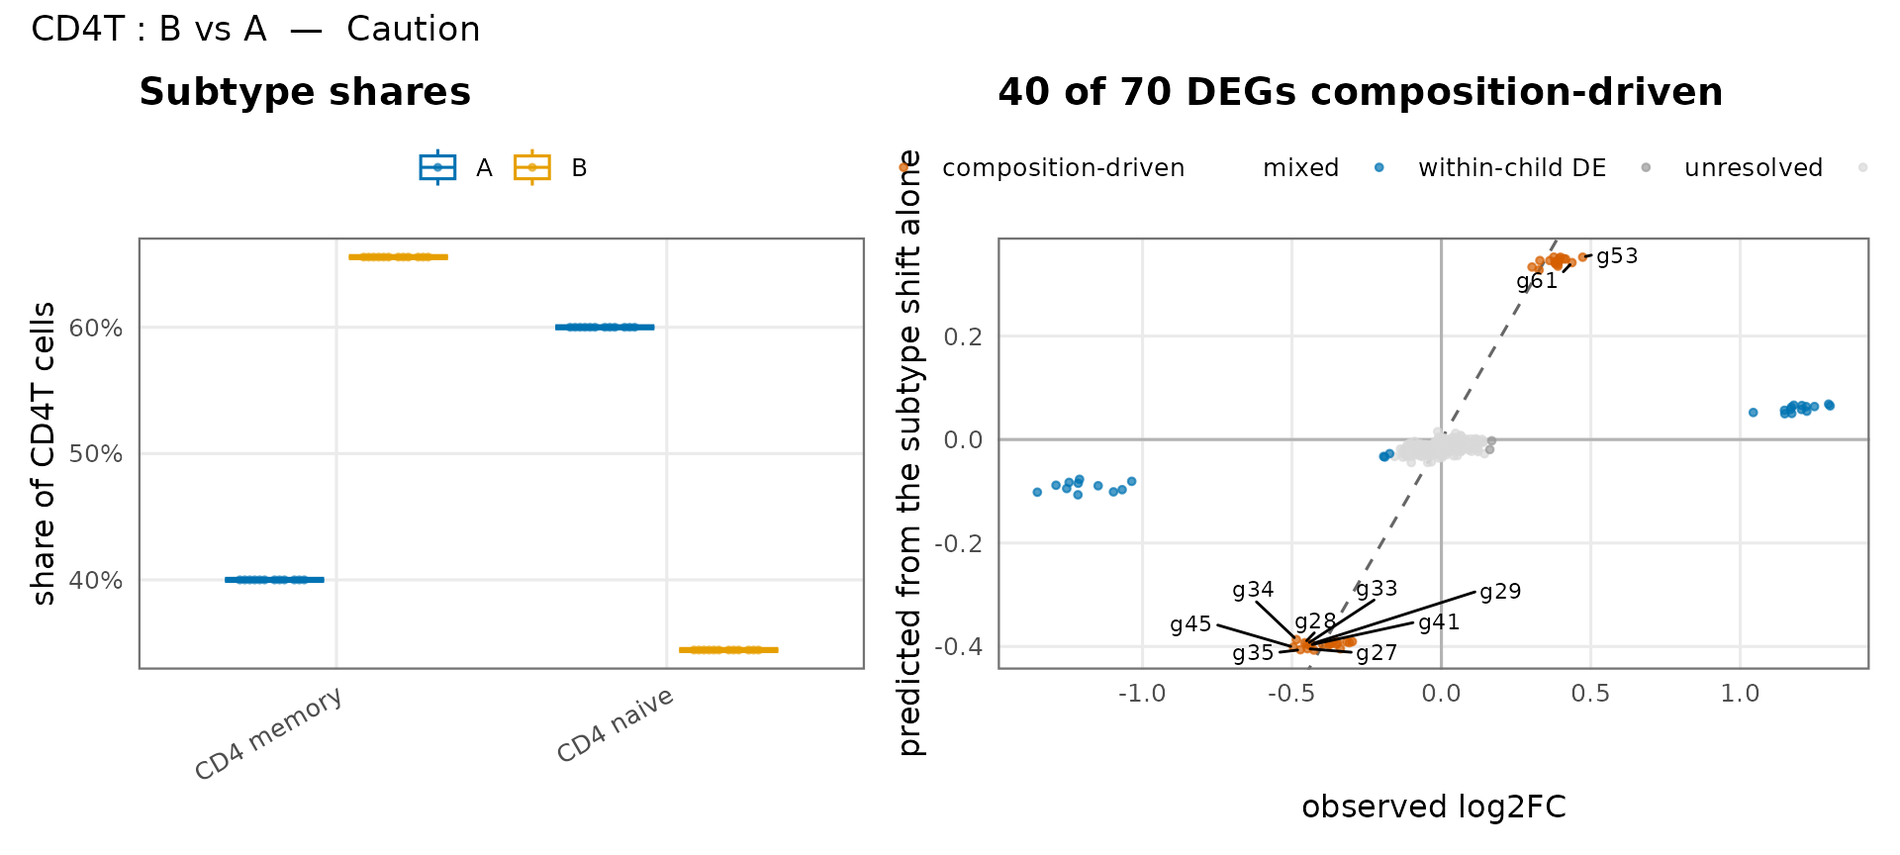
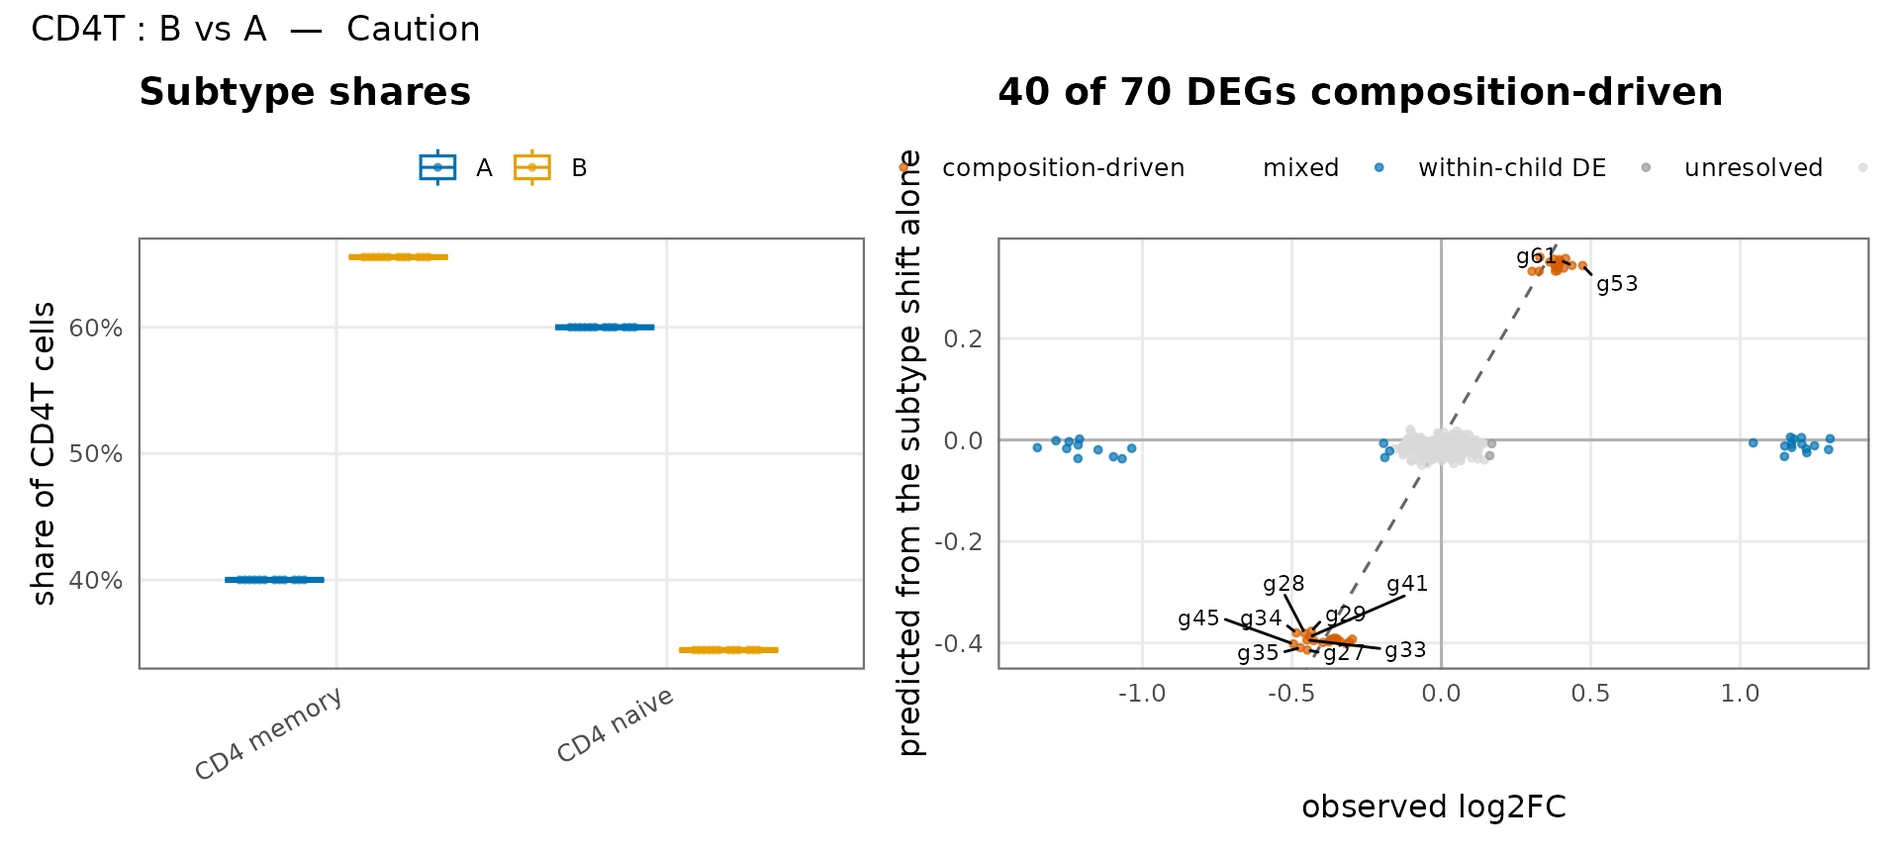
Deploying to gh-pages from @ smorabit/seny@18b826710f20b2fa9de70a03a6405b9912578970 🚀

diff --git a/articles/seny.html b/articles/seny.html
@@ -290,9 +290,8 @@ and for each broad cluster:</p>
 <li>tests the subtypes’ shares of the cluster with
 <code><a href="https://rdrr.io/pkg/speckle/man/propeller.html" class="external-link">speckle::propeller</a></code>;</li>
 <li>predicts, per gene, the log2 fold change the observed shift alone
-would cause, and counts the genes where it exceeds the gene’s own
-minimum detectable effect (they would be called DE from composition
-alone);</li>
+would cause, and the power to call it DE, which sums to the number of
+DEGs expected from composition alone;</li>
 <li>labels each DEG of the broad cluster’s own test as
 <em>composition-driven</em>, <em>within-child DE</em>, <em>mixed</em> or
 <em>unresolved</em>, by comparing the observed change with the
@@ -310,7 +309,7 @@ prediction and checking whether any subtype shows the gene as DE.</li>
 <span><span class="co">#&gt; calcNormFactors has been renamed to normLibSizes</span></span>
 <span><span class="va">d2</span> <span class="op">&lt;-</span> <span class="fu"><a href="https://rdrr.io/r/base/as.data.frame.html" class="external-link">as.data.frame</a></span><span class="op">(</span><span class="va">res2</span><span class="op">)</span></span>
 <span><span class="va">cols</span> <span class="op">&lt;-</span> <span class="fu"><a href="https://rdrr.io/r/base/c.html" class="external-link">c</a></span><span class="op">(</span><span class="st">"annotation"</span>, <span class="st">"cluster"</span>, <span class="st">"call"</span>, <span class="st">"composition"</span>, <span class="st">"comp_child"</span>,</span>
-<span>          <span class="st">"n_comp_sensitive"</span>, <span class="st">"n_parent_deg"</span>, <span class="st">"n_comp_driven"</span><span class="op">)</span></span>
+<span>          <span class="st">"exp_comp_deg"</span>, <span class="st">"n_parent_deg"</span>, <span class="st">"n_comp_driven"</span><span class="op">)</span></span>
 <span><span class="fu">knitr</span><span class="fu">::</span><span class="fu"><a href="https://rdrr.io/pkg/knitr/man/kable.html" class="external-link">kable</a></span><span class="op">(</span><span class="va">d2</span><span class="op">[</span><span class="va">d2</span><span class="op">$</span><span class="va">annotation</span> <span class="op">==</span> <span class="st">"cell_type"</span>, <span class="va">cols</span><span class="op">]</span>, digits <span class="op">=</span> <span class="fl">2</span>, row.names <span class="op">=</span> <span class="cn">FALSE</span><span class="op">)</span></span></code></pre></div>
 <table class="table">
 <colgroup>
@@ -319,7 +318,7 @@ prediction and checking whether any subtype shows the gene as DE.</li>
 <col width="13%">
 <col width="13%">
 <col width="11%">
-<col width="17%">
+<col width="13%">
 <col width="13%">
 <col width="14%">
 </colgroup>
@@ -329,7 +328,7 @@ prediction and checking whether any subtype shows the gene as DE.</li>
 <th align="left">call</th>
 <th align="left">composition</th>
 <th align="left">comp_child</th>
-<th align="right">n_comp_sensitive</th>
+<th align="right">exp_comp_deg</th>
 <th align="right">n_parent_deg</th>
 <th align="right">n_comp_driven</th>
 </tr></thead>
@@ -340,7 +339,7 @@ prediction and checking whether any subtype shows the gene as DE.</li>
 <td align="left">Caution</td>
 <td align="left">assessed</td>
 <td align="left">CD4 memory</td>
-<td align="right">40</td>
+<td align="right">44.36</td>
 <td align="right">70</td>
 <td align="right">40</td>
 </tr>
@@ -368,10 +367,10 @@ prediction and checking whether any subtype shows the gene as DE.</li>
 </table>
 <div class="sourceCode" id="cb11"><pre class="downlit sourceCode r">
 <code class="sourceCode R"><span><span class="va">d2</span><span class="op">$</span><span class="va">reason</span><span class="op">[</span><span class="va">d2</span><span class="op">$</span><span class="va">comparison</span> <span class="op">==</span> <span class="st">"cell_type:CD4T:B_vs_A"</span><span class="op">]</span></span>
-<span><span class="co">#&gt; [1] "composition shift within the cluster (CD4 memory 40% -&gt; 66%, FDR 0): 40 genes (10.0%) would look DE from the shift alone"</span></span></code></pre></div>
+<span><span class="co">#&gt; [1] "composition shift within the cluster (CD4 memory 40% -&gt; 66%, FDR 0): ~44 genes (11.1%) expected to look DE from the shift alone"</span></span></code></pre></div>
 <p>CD4 T is now <strong>Caution</strong>: the memory share rises from
-about 40% to 66%, enough to make 40 genes look DE at the broad level.
-<code><a href="../reference/plotComposition.html">plotComposition()</a></code> shows the shift and which of the
+about 40% to 66%, enough to make about 44 genes look DE at the broad
+level. <code><a href="../reference/plotComposition.html">plotComposition()</a></code> shows the shift and which of the
 cluster’s DEGs it explains: composition-driven genes sit on the
 diagonal, while the genes that really change inside the subtypes do
 not.</p>
@@ -406,7 +405,7 @@ not chosen up front.</p>
 <span><span class="co">#&gt;  $ minTestable   : num 200</span></span>
 <span><span class="co">#&gt;  $ compFDR       : num 0.05</span></span>
 <span><span class="co">#&gt;  $ compFrac      : num 0.01</span></span>
-<span><span class="co">#&gt;  $ compExplained : num 0.5</span></span></code></pre></div>
+<span><span class="co">#&gt;  $ compExplained : num 0.25</span></span></code></pre></div>
 <p>This run assessed 3 comparisons. When you scan many comparisons at
 once, treat the matrix as a screen, not a ranking: picking the standout
 cell after the fact inflates false positives. The call tells you which
@@ -457,7 +456,7 @@ multiple-testing control across them.</p>
 <span><span class="co">#&gt;  [33] pkgconfig_2.0.3             Matrix_1.7-6               </span></span>
 <span><span class="co">#&gt;  [35] R6_2.6.1                    fastmap_1.2.0              </span></span>
 <span><span class="co">#&gt;  [37] MatrixGenerics_1.24.0       fitdistrplus_1.2-6         </span></span>
-<span><span class="co">#&gt;  [39] future_1.80.0               shiny_1.14.0               </span></span>
+<span><span class="co">#&gt;  [39] future_1.82.0               shiny_1.14.0               </span></span>
 <span><span class="co">#&gt;  [41] digest_0.6.39               patchwork_1.3.2            </span></span>
 <span><span class="co">#&gt;  [43] S4Vectors_0.50.3            tensor_1.5.1               </span></span>
 <span><span class="co">#&gt;  [45] Seurat_5.6.0                RSpectra_0.16-2            </span></span>

diff --git a/reference/assessComposition.html b/reference/assessComposition.html
@@ -55,7 +55,7 @@ step measures that risk for every comparison, in four parts:</p>
 <span>  <span class="va">sensitivity</span>,</span>
 <span>  power <span class="op">=</span> <span class="fl">0.8</span>,</span>
 <span>  fdr <span class="op">=</span> <span class="fl">0.05</span>,</span>
-<span>  reference <span class="op">=</span> <span class="fu"><a href="https://rdrr.io/r/base/c.html" class="external-link">c</a></span><span class="op">(</span><span class="st">"pooled"</span>, <span class="st">"reference"</span><span class="op">)</span>,</span>
+<span>  reference <span class="op">=</span> <span class="fu"><a href="https://rdrr.io/r/base/c.html" class="external-link">c</a></span><span class="op">(</span><span class="st">"reference"</span>, <span class="st">"pooled"</span><span class="op">)</span>,</span>
 <span>  thresholds <span class="op">=</span> <span class="fu"><a href="defaultThresholds.html">defaultThresholds</a></span><span class="op">(</span><span class="op">)</span></span>
 <span><span class="op">)</span></span></code></pre></div>
     </div>
@@ -88,9 +88,9 @@ attribution. Default 0.05.</p></dd>
 
 <dt id="arg-reference">reference<a class="anchor" aria-label="anchor" href="#arg-reference"></a></dt>
 <dd><p>Where the per-cell child expression <code>c_gk</code> comes from:
-<code>"pooled"</code> (all samples of the contrast's groups; default) or <code>"reference"</code>
-(the contrast's reference group A only, which avoids attributing real
-within-child DE in B to composition).</p></dd>
+<code>"reference"</code> (the contrast's reference group A only; default, which avoids
+attributing real within-child DE in B to composition) or <code>"pooled"</code> (all
+samples of the contrast's groups).</p></dd>
 
 
 <dt id="arg-thresholds">thresholds<a class="anchor" aria-label="anchor" href="#arg-thresholds"></a></dt>
@@ -102,9 +102,10 @@ within-child DE in B to composition).</p></dd>
     <p>A list with <code>summary</code> (a <code>data.frame</code>, one row per comparison: the
 cluster share <code>share_A</code>, <code>share_B</code>, <code>share_fdr</code>; the <code>composition</code> status;
 the most shifted child <code>comp_child</code> with <code>comp_share_A</code>, <code>comp_share_B</code> and
-<code>comp_min_fdr</code>; <code>n_comp_sensitive</code>, <code>frac_comp_sensitive</code>; <code>n_parent_deg</code>,
+<code>comp_min_fdr</code>; <code>exp_comp_deg</code>, <code>frac_comp_expected</code>; <code>n_comp_sensitive</code>,
+<code>frac_comp_sensitive</code>; <code>n_parent_deg</code>,
 <code>n_comp_driven</code>, <code>frac_comp_driven</code>), <code>genes</code> (per gene and comparison:
-<code>lfc_comp</code>, <code>mde</code>, <code>sensitive</code>, the observed <code>logfc</code>, <code>padj</code>, <code>parent_de</code>,
+<code>lfc_comp</code>, <code>comp_power</code>, <code>mde</code>, <code>sensitive</code>, the observed <code>logfc</code>, <code>padj</code>, <code>parent_de</code>,
 <code>child_de</code> and the attribution <code>label</code>) and <code>proportions</code> (per sample and
 child, the child's share of the parent).</p>
     </div>
@@ -123,12 +124,17 @@ change the observed subtype shift alone would produce in the parent's
 library-size-normalised pseudobulk,
 <code>log2[(sum_k pB_k c_gk / sum_k pB_k L_k) / (sum_k pA_k c_gk / sum_k pA_k L_k)]</code>,
 with <code>p</code> the donor-averaged child shares, <code>c_gk</code> the per-cell mean count of
-gene g in child k and <code>L_k</code> the child's per-cell library size. A gene is
-composition-sensitive when this shift-only change exceeds its own minimum
-detectable effect (the layer-4 MDE at the comparison's per-gene alpha), so
-the shift alone would be detected as DE. <code><a href="callComparisons.html">callComparisons()</a></code> flags the
-comparison <strong>Caution</strong> when a child's shift is significant and the share of
-composition-sensitive testable genes reaches <code>thresholds$compFrac</code>.</p></li>
+gene g in child k and <code>L_k</code> the child's per-cell library size. Each gene's
+power to be called DE at that shift-only change (layer 4, at the
+comparison's per-gene alpha) is <code>comp_power</code>; their sum, <code>exp_comp_deg</code>, is
+the number of DEGs the shift alone is expected to produce, and
+<code>frac_comp_expected</code> its share of the testable genes. <code><a href="callComparisons.html">callComparisons()</a></code>
+flags the comparison <strong>Caution</strong> when a child's shift is significant and
+<code>frac_comp_expected</code> reaches <code>thresholds$compFrac</code>. Genes whose shift-only
+change exceeds their own MDE (<code>sensitive</code>, counted in <code>n_comp_sensitive</code>)
+are reported too, but many genes each at modest power add up to many
+artefacts without any of them clearing the MDE, so that count understates
+the risk (E6).</p></li>
 <li><p><strong>Attribution of the observed parent DEGs</strong> (retrospective, reported
 only): each gene the method's own test calls DE in the parent at <code>fdr</code> is
 labelled <em>composition-driven</em> (DE in no child comparison, and the

diff --git a/reference/assessAll.html b/reference/assessAll.html
@@ -73,7 +73,7 @@ Invalid call per cluster-by-contrast comparison.</p>
 <span>  alphaFixed <span class="op">=</span> <span class="cn">NULL</span>,</span>
 <span>  thresholds <span class="op">=</span> <span class="fu"><a href="defaultThresholds.html">defaultThresholds</a></span><span class="op">(</span><span class="op">)</span>,</span>
 <span>  thetaReps <span class="op">=</span> <span class="fl">3</span>,</span>
-<span>  compReference <span class="op">=</span> <span class="fu"><a href="https://rdrr.io/r/base/c.html" class="external-link">c</a></span><span class="op">(</span><span class="st">"pooled"</span>, <span class="st">"reference"</span><span class="op">)</span>,</span>
+<span>  compReference <span class="op">=</span> <span class="fu"><a href="https://rdrr.io/r/base/c.html" class="external-link">c</a></span><span class="op">(</span><span class="st">"reference"</span>, <span class="st">"pooled"</span><span class="op">)</span>,</span>
 <span>  BPPARAM <span class="op">=</span> <span class="fu">BiocParallel</span><span class="fu">::</span><span class="fu"><a href="https://rdrr.io/pkg/BiocParallel/man/SerialParam-class.html" class="external-link">SerialParam</a></span><span class="op">(</span><span class="op">)</span></span>
 <span><span class="op">)</span></span></code></pre></div>
     </div>
@@ -153,7 +153,7 @@ decomposition is <code>NA</code>).</p></dd>
 
 <dt id="arg-compreference">compReference<a class="anchor" aria-label="anchor" href="#arg-compreference"></a></dt>
 <dd><p>Source of the per-cell subtype expression in
-<code><a href="assessComposition.html">assessComposition()</a></code>: <code>"pooled"</code> (default) or <code>"reference"</code>.</p></dd>
+<code><a href="assessComposition.html">assessComposition()</a></code>: <code>"reference"</code> (default) or <code>"pooled"</code>.</p></dd>
 
 
 <dt id="arg-bpparam">BPPARAM<a class="anchor" aria-label="anchor" href="#arg-bpparam"></a></dt>

diff --git a/reference/defaultThresholds.html b/reference/defaultThresholds.html
@@ -64,13 +64,15 @@ flagged: the cutoff is <code>max(cellsCondCor, r_crit(n))</code>, about 0.81 at 
 samples and <code>cellsCondCor</code> from ~16 samples), and <code>minTestable</code> (fewer
 testable genes is Underpowered). The layer-2 values, like the others, are
 provisional placeholders until E1-E8. The composition values (see
-<code><a href="assessComposition.html">assessComposition()</a></code>) are advisory until the E5/E6 calibration:
-<code>compFDR</code> (propeller FDR below which a child's share within its parent is
-called shifted), <code>compFrac</code> (share of testable genes that would look DE
-from that shift alone at or above which the comparison is flagged Caution)
-and <code>compExplained</code> (share of a parent DEG's observed log2 fold change the
-predicted shift-only change must explain for the gene to be attributed to
-composition).</p>
+<code><a href="assessComposition.html">assessComposition()</a></code>) were calibrated on imposed subtype shifts in
+OneK1K (E6): <code>compFDR</code> (propeller FDR below which a child's share within
+its parent is called shifted), <code>compFrac</code> (expected DEGs from that shift
+alone, as a share of testable genes, at or above which the comparison is
+flagged Caution; 0.01 maximised Youden's J for predicting artefacts in at
+least 1% of genes, with no flags without a shift) and <code>compExplained</code>
+(share of a parent DEG's observed log2 fold change the predicted shift-only
+change must explain for the gene to be attributed to composition; 0.25,
+since the observed change of a detected DEG is inflated by selection).</p>
     </div>
 
   </main><aside class="col-md-3"><nav id="toc" aria-label="Table of contents"><h2>On this page</h2>

diff --git a/reference/assessComposition.md b/reference/assessComposition.md
@@ -15,7 +15,7 @@ assessComposition(
   sensitivity,
   power = 0.8,
   fdr = 0.05,
-  reference = c("pooled", "reference"),
+  reference = c("reference", "pooled"),
   thresholds = defaultThresholds()
 )
 ```
@@ -51,10 +51,10 @@ assessComposition(
 
 - reference:
 
-  Where the per-cell child expression `c_gk` comes from: `"pooled"` (all
-  samples of the contrast's groups; default) or `"reference"` (the
-  contrast's reference group A only, which avoids attributing real
-  within-child DE in B to composition).
+  Where the per-cell child expression `c_gk` comes from: `"reference"`
+  (the contrast's reference group A only; default, which avoids
+  attributing real within-child DE in B to composition) or `"pooled"`
+  (all samples of the contrast's groups).
 
 - thresholds:
 
@@ -67,12 +67,12 @@ assessComposition(
 A list with `summary` (a `data.frame`, one row per comparison: the
 cluster share `share_A`, `share_B`, `share_fdr`; the `composition`
 status; the most shifted child `comp_child` with `comp_share_A`,
-`comp_share_B` and `comp_min_fdr`; `n_comp_sensitive`,
-`frac_comp_sensitive`; `n_parent_deg`, `n_comp_driven`,
-`frac_comp_driven`), `genes` (per gene and comparison: `lfc_comp`,
-`mde`, `sensitive`, the observed `logfc`, `padj`, `parent_de`,
-`child_de` and the attribution `label`) and `proportions` (per sample
-and child, the child's share of the parent).
+`comp_share_B` and `comp_min_fdr`; `exp_comp_deg`, `frac_comp_expected`;
+`n_comp_sensitive`, `frac_comp_sensitive`; `n_parent_deg`,
+`n_comp_driven`, `frac_comp_driven`), `genes` (per gene and comparison:
+`lfc_comp`, `comp_power`, `mde`, `sensitive`, the observed `logfc`,
+`padj`, `parent_de`, `child_de` and the attribution `label`) and
+`proportions` (per sample and child, the child's share of the parent).
 
 ## Details
 
@@ -95,14 +95,18 @@ and child, the child's share of the parent).
     `log2[(sum_k pB_k c_gk / sum_k pB_k L_k) / (sum_k pA_k c_gk / sum_k pA_k L_k)]`,
     with `p` the donor-averaged child shares, `c_gk` the per-cell mean
     count of gene g in child k and `L_k` the child's per-cell library
-    size. A gene is composition-sensitive when this shift-only change
-    exceeds its own minimum detectable effect (the layer-4 MDE at the
-    comparison's per-gene alpha), so the shift alone would be detected
-    as DE.
+    size. Each gene's power to be called DE at that shift-only change
+    (layer 4, at the comparison's per-gene alpha) is `comp_power`; their
+    sum, `exp_comp_deg`, is the number of DEGs the shift alone is
+    expected to produce, and `frac_comp_expected` its share of the
+    testable genes.
     [`callComparisons()`](https://smorabit.github.io/seny/reference/callComparisons.md)
     flags the comparison **Caution** when a child's shift is significant
-    and the share of composition-sensitive testable genes reaches
-    `thresholds$compFrac`.
+    and `frac_comp_expected` reaches `thresholds$compFrac`. Genes whose
+    shift-only change exceeds their own MDE (`sensitive`, counted in
+    `n_comp_sensitive`) are reported too, but many genes each at modest
+    power add up to many artefacts without any of them clearing the MDE,
+    so that count understates the risk (E6).
 
 4.  **Attribution of the observed parent DEGs** (retrospective, reported
     only): each gene the method's own test calls DE in the parent at

diff --git a/articles/seny.md b/articles/seny.md
@@ -185,9 +185,8 @@ the cells, and for each broad cluster:
 - tests the subtypes’ shares of the cluster with
   [`speckle::propeller`](https://rdrr.io/pkg/speckle/man/propeller.html);
 - predicts, per gene, the log2 fold change the observed shift alone
-  would cause, and counts the genes where it exceeds the gene’s own
-  minimum detectable effect (they would be called DE from composition
-  alone);
+  would cause, and the power to call it DE, which sums to the number of
+  DEGs expected from composition alone;
 - labels each DEG of the broad cluster’s own test as
   *composition-driven*, *within-child DE*, *mixed* or *unresolved*, by
   comparing the observed change with the prediction and checking whether
@@ -206,24 +205,24 @@ res2 <- assessAll(sce, sample = "donor", group = "condition",
 #> calcNormFactors has been renamed to normLibSizes
 d2 <- as.data.frame(res2)
 cols <- c("annotation", "cluster", "call", "composition", "comp_child",
-          "n_comp_sensitive", "n_parent_deg", "n_comp_driven")
+          "exp_comp_deg", "n_parent_deg", "n_comp_driven")
 knitr::kable(d2[d2$annotation == "cell_type", cols], digits = 2, row.names = FALSE)
 ```
 
-| annotation | cluster | call | composition | comp_child | n_comp_sensitive | n_parent_deg | n_comp_driven |
+| annotation | cluster | call | composition | comp_child | exp_comp_deg | n_parent_deg | n_comp_driven |
 |:---|:---|:---|:---|:---|---:|---:|---:|
-| cell_type | CD4T | Caution | assessed | CD4 memory | 40 | 70 | 40 |
+| cell_type | CD4T | Caution | assessed | CD4 memory | 44.36 | 70 | 40 |
 | cell_type | CD8T | Caution | single child | NA | NA | NA | NA |
 | cell_type | NK | Underpowered | single child | NA | NA | NA | NA |
 
 ``` r
 
 d2$reason[d2$comparison == "cell_type:CD4T:B_vs_A"]
-#> [1] "composition shift within the cluster (CD4 memory 40% -> 66%, FDR 0): 40 genes (10.0%) would look DE from the shift alone"
+#> [1] "composition shift within the cluster (CD4 memory 40% -> 66%, FDR 0): ~44 genes (11.1%) expected to look DE from the shift alone"
 ```
 
 CD4 T is now **Caution**: the memory share rises from about 40% to 66%,
-enough to make 40 genes look DE at the broad level.
+enough to make about 44 genes look DE at the broad level.
 [`plotComposition()`](https://smorabit.github.io/seny/reference/plotComposition.md)
 shows the shift and which of the cluster’s DEGs it explains:
 composition-driven genes sit on the diagonal, while the genes that
@@ -265,7 +264,7 @@ str(defaultThresholds())
 #>  $ minTestable   : num 200
 #>  $ compFDR       : num 0.05
 #>  $ compFrac      : num 0.01
-#>  $ compExplained : num 0.5
+#>  $ compExplained : num 0.25
 ```
 
 This run assessed 3 comparisons. When you scan many comparisons at once,
@@ -320,7 +319,7 @@ sessionInfo()
 #>  [33] pkgconfig_2.0.3             Matrix_1.7-6               
 #>  [35] R6_2.6.1                    fastmap_1.2.0              
 #>  [37] MatrixGenerics_1.24.0       fitdistrplus_1.2-6         
-#>  [39] future_1.80.0               shiny_1.14.0               
+#>  [39] future_1.82.0               shiny_1.14.0               
 #>  [41] digest_0.6.39               patchwork_1.3.2            
 #>  [43] S4Vectors_0.50.3            tensor_1.5.1               
 #>  [45] Seurat_5.6.0                RSpectra_0.16-2            

diff --git a/reference/defaultThresholds.md b/reference/defaultThresholds.md
@@ -29,10 +29,12 @@ correlations in small designs are not flagged: the cutoff is
 genes is Underpowered). The layer-2 values, like the others, are
 provisional placeholders until E1-E8. The composition values (see
 [`assessComposition()`](https://smorabit.github.io/seny/reference/assessComposition.md))
-are advisory until the E5/E6 calibration: `compFDR` (propeller FDR below
-which a child's share within its parent is called shifted), `compFrac`
-(share of testable genes that would look DE from that shift alone at or
-above which the comparison is flagged Caution) and `compExplained`
-(share of a parent DEG's observed log2 fold change the predicted
-shift-only change must explain for the gene to be attributed to
-composition).
+were calibrated on imposed subtype shifts in OneK1K (E6): `compFDR`
+(propeller FDR below which a child's share within its parent is called
+shifted), `compFrac` (expected DEGs from that shift alone, as a share of
+testable genes, at or above which the comparison is flagged Caution;
+0.01 maximised Youden's J for predicting artefacts in at least 1% of
+genes, with no flags without a shift) and `compExplained` (share of a
+parent DEG's observed log2 fold change the predicted shift-only change
+must explain for the gene to be attributed to composition; 0.25, since
+the observed change of a detected DEG is inflated by selection).

diff --git a/reference/assessAll.md b/reference/assessAll.md
@@ -37,7 +37,7 @@ assessAll(
   alphaFixed = NULL,
   thresholds = defaultThresholds(),
   thetaReps = 3,
-  compReference = c("pooled", "reference"),
+  compReference = c("reference", "pooled"),
   BPPARAM = BiocParallel::SerialParam()
 )
 ```
@@ -123,7 +123,7 @@ assessAll(
 
   Source of the per-cell subtype expression in
   [`assessComposition()`](https://smorabit.github.io/seny/reference/assessComposition.md):
-  `"pooled"` (default) or `"reference"`.
+  `"reference"` (default) or `"pooled"`.
 
 - BPPARAM:
 
